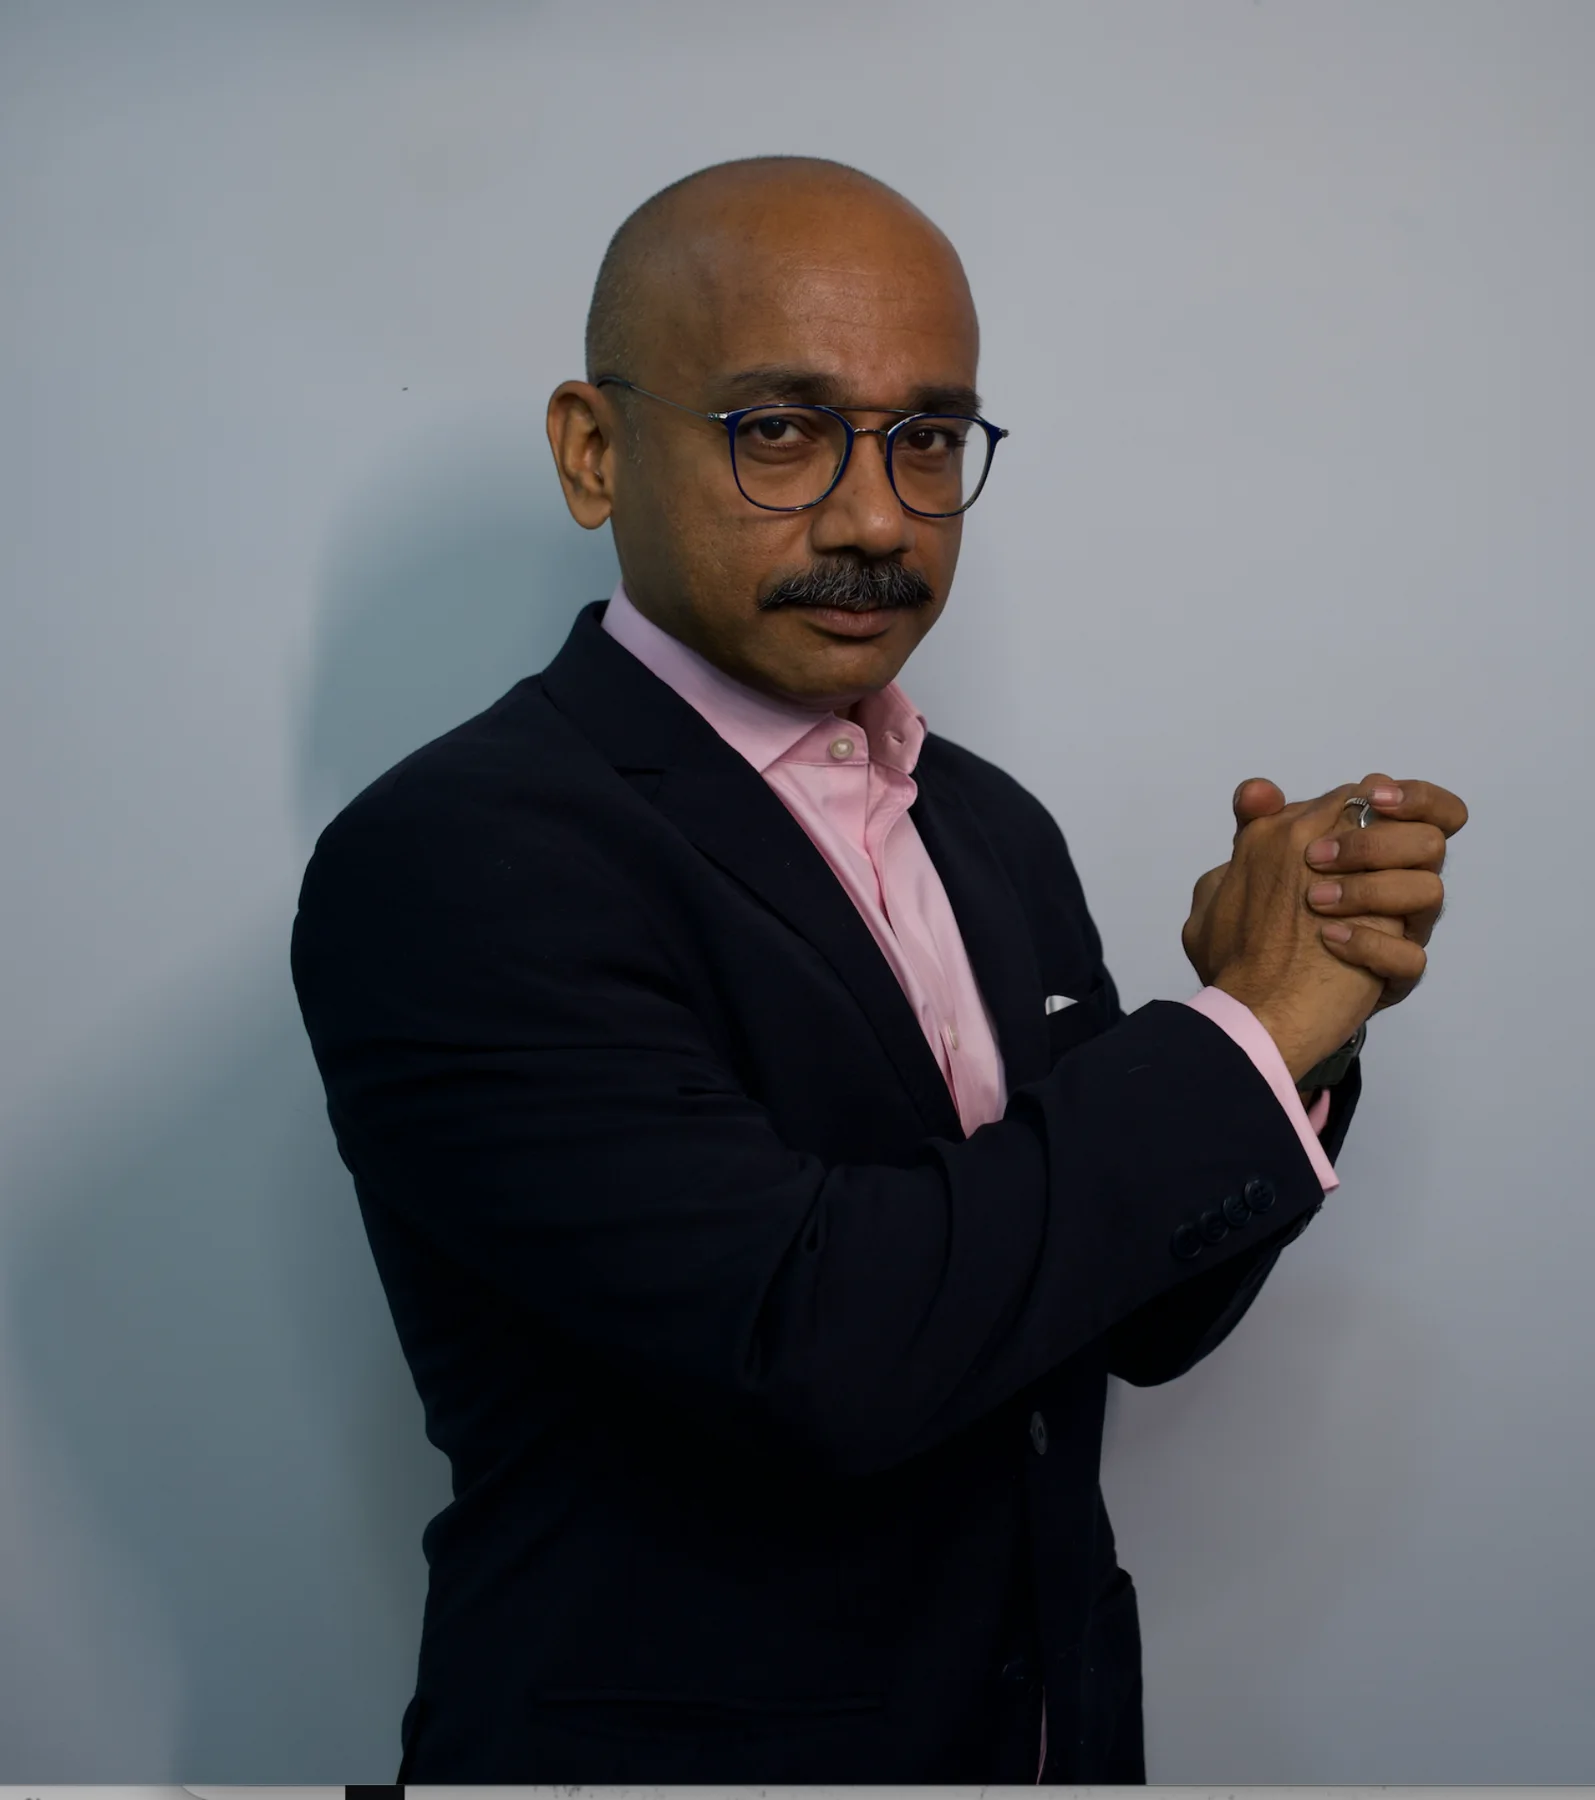
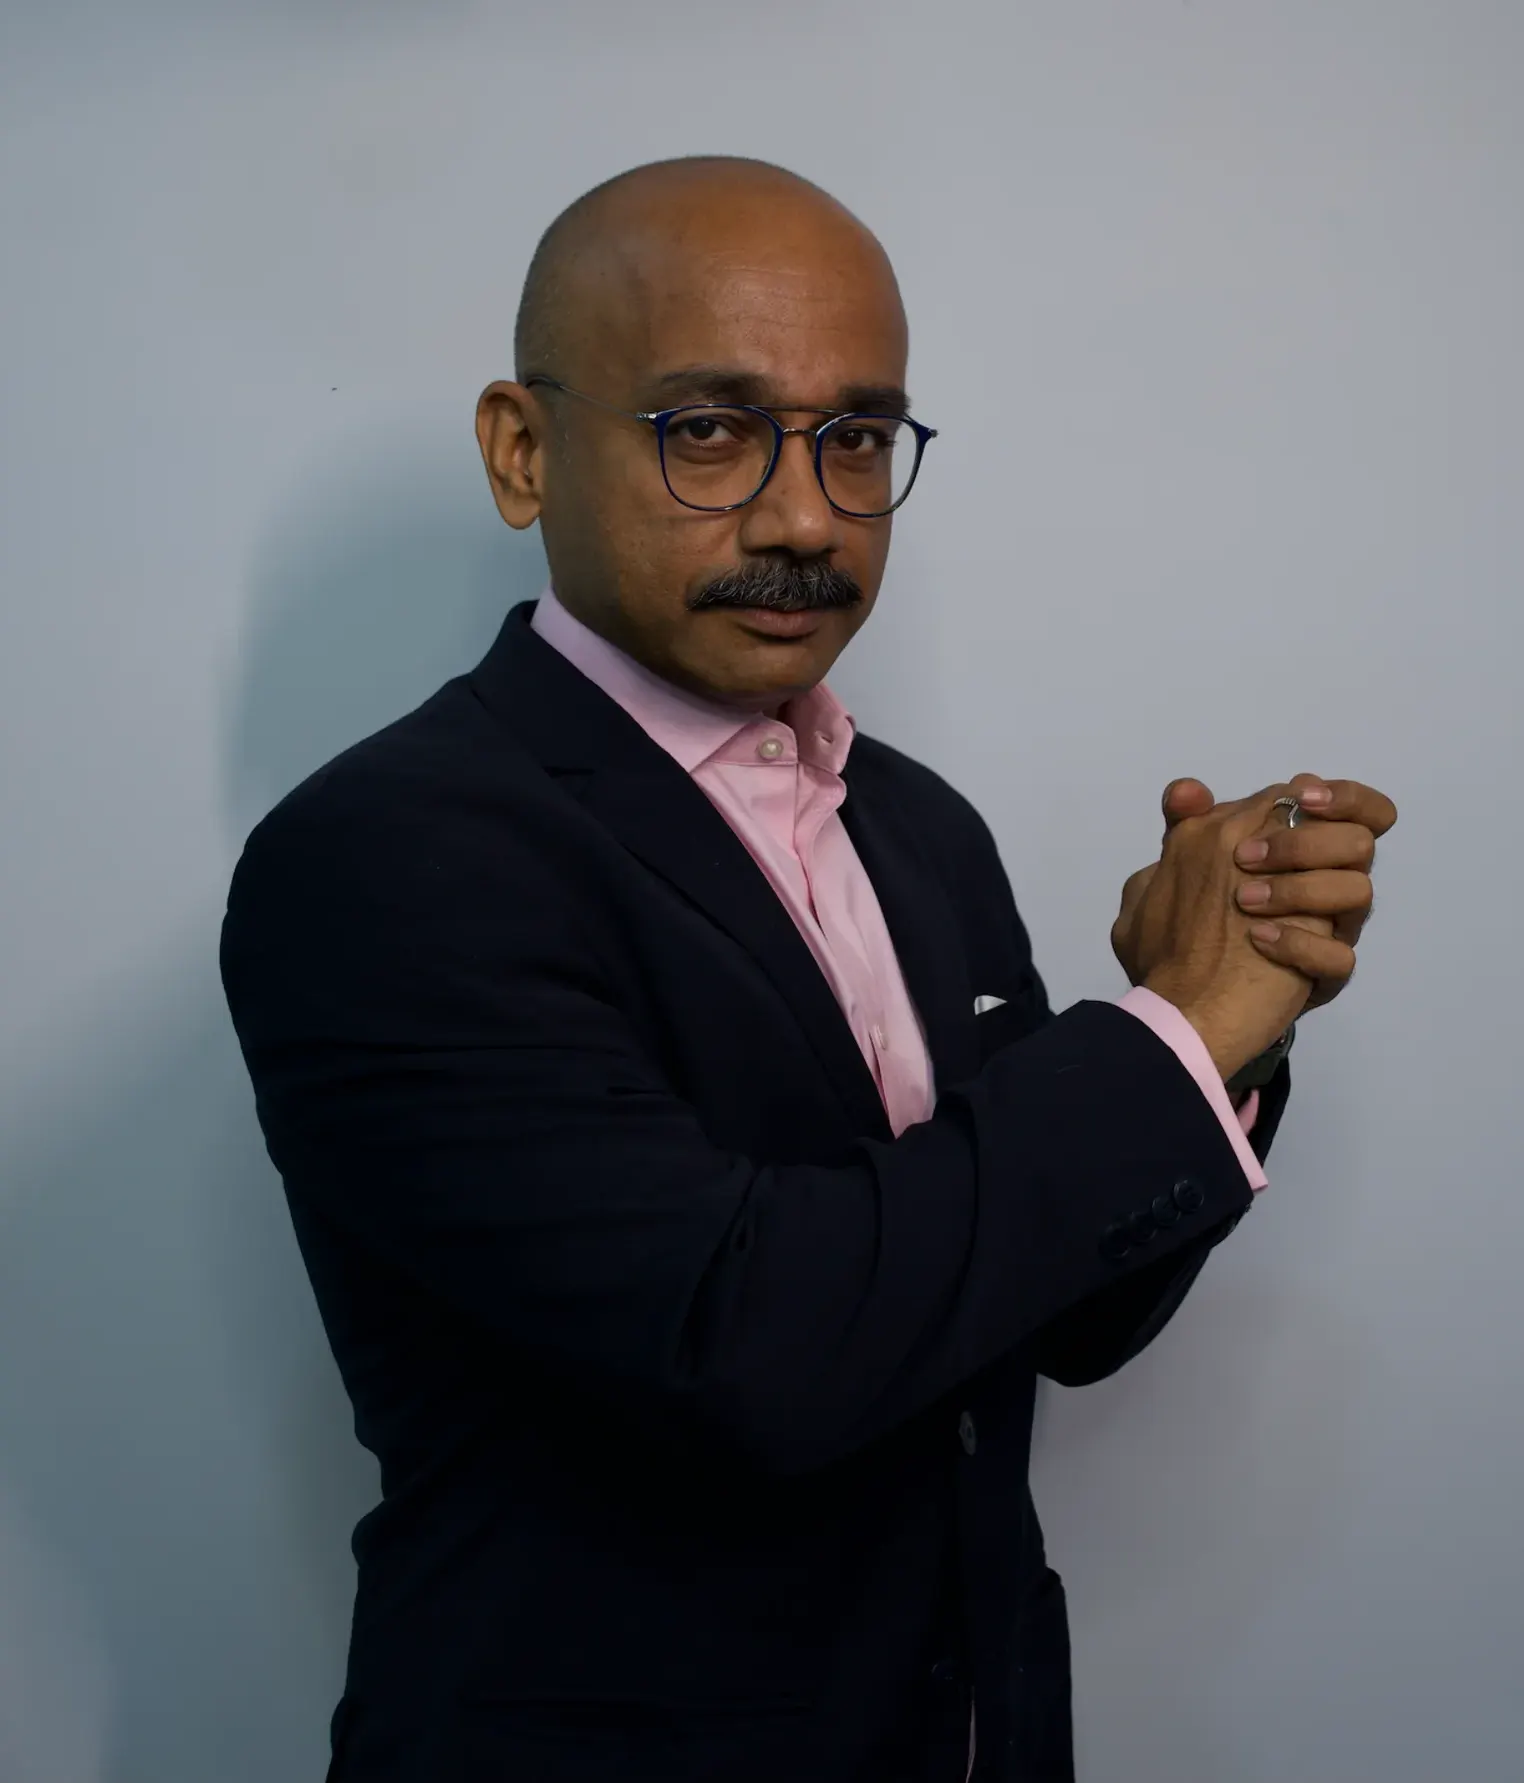
first commit

diff --git a/about.html b/about.html
@@ -50,11 +50,10 @@
   <section class="hero">
     <div class="container hero-grid">
       <div class="hero-copy">
-        <div class="eyebrow">About Vijay</div>
-        <h1>A Journey of Reinvention. <span class="gold">A Voice That Inspires Millions.</span></h1>
-        <p>From corporate boardrooms to national television, from finding his own voice to helping others find theirs,
-          Vijay Vikram Singh has built a career around one belief: communication can change lives.</p>
-        <div class="cta-row"><a class="btn btn-primary" href="contact.html#leadForm">Work With Vijay</a></div>
+        <div class="eyebrow">About VVS</div>
+        <h1>A Journey of Reinvention. <br> <span class="gold">A Voice That Inspires Millions.</span></h1>
+        <p>From corporate beginnings to becoming a recognised voice, my work is rooted in one idea — communication is not just spoken, it is experienced through clarity, confidence, and presence.</p>
+        <div class="cta-row"><a class="btn btn-primary" href="contact.html#leadForm">Work With VVS</a></div>
       </div>
       <div class="hero-image"><img src="assets/images/hero-vijay-2.webp" alt="Vijay Vikram Singh portrait"></div>
     </div>
@@ -66,12 +65,10 @@
       </div>
       <div>
         <div class="eyebrow">My Story</div>
-        <h2 class="section-title">The Voice You Know. The Journey You Do Not.</h2>
-        <p>Vijay's journey is built on curiosity, discipline, performance and reinvention. His work across television,
-          films, voice-over and corporate training gives him a rare ability to understand both stage presence and
-          real-world communication.</p>
-        <p>Today, he helps leaders, teams and individuals communicate with clarity, authority and presence.</p>
-        <a class="btn btn-primary" href="contact.html#leadForm">Book a Session</a>
+        <h2 class="section-title">The Voice You Hear. <br> The Depth You Don’t See.</h2>
+        <p>My work has taken me across studios, film sets, and boardrooms, but at the core of it all is a single question I’ve been exploring for years “What makes communication truly land”.</p>
+        <p>I started my journey in the corporate world, where I saw how often ideas don’t fail because they lack substance, they fail because they lack clarity and presence. That understanding stayed with me when I moved into Voice Over and dubbing work in 2009.</p>
+        <a class="btn btn-primary" href="contact.html#leadFormSection">Book a Session</a>
       </div>
     </div>
   </section>
@@ -113,10 +110,16 @@
   <section class="dark">
     <div class="container split">
       <div>
-        <h2 class="section-title">Your voice is your presence. Your presence is your power.</h2>
+        <!-- <h2 class="section-title">Your voice is your presence. Your presence is your power.</h2> -->
+        <h2 class="section-title">The Journey Behind The Voice</h2>
         <p class="section-description">
-          Discover the art of impactful communication with Vijay Vikram Singh. From commanding the stage to leading meaningful conversations, learn how to use your voice with clarity, confidence, and purpose. Transform the way you express, influence, and connect—because the way you speak defines how the world perceives you.
+          Over the years, my voice has become part of some of the most recognised shows in the country. As the narrator of Bigg Boss since 2010, and through shows like Kaun Banega Crorepati, Indian Idol, MasterChef India, and others, I’ve had the opportunity to be a consistent voice across Indian television. Somewhere along the way, voice stopped being just a profession and became a deeper study of identity, of how sound carries intent, authority, and emotion.
         </p>
+        <p class="section-description">In 2018, Acting brought in another dimension. Working across OTT platforms and films, stepping into different characters, and being in front of the camera made one thing very clear that truth cannot be faked. The camera catches everything and that process deepened my understanding of behaviour, emotion, and presence in a way no theory can.</p>
+        <p class="section-description">These experiences naturally led me to the third space I now work in - People.</p>
+        <p class="section-description">Today, I work with leaders, founders, and professionals across industries, helping them bridge the gap between what they want to say and how they are actually perceived. The work is not about tips or surface-level techniques. It is about alignment of thought, of voice, and of body; especially in high pressure situations where it matters the most.</p>
+        <p class="section-description">Alongside this, I continue to work closely with actors and creators on voice and performance, helping them find authenticity in how they sound and show up.</p>
+        <p class="section-description">Across all of this, whether it’s a show, a scene, or a boardroom conversation, the challenge remains the same : <span class="gold-des">“You are being heard, but are you being understood?”</span></p>
         <div class="signature">Vijay Vikram Singh</div>
         <a class="btn btn-primary" href="contact.html#leadForm">Book a Session</a>
       </div>
@@ -256,6 +259,7 @@
       <span>Connect with VVS</span>
     </button>
   </div>
+
   <script src="assets/js/main.js"></script>
 </body>
 

diff --git a/assets/js/main.js b/assets/js/main.js
@@ -1,10 +1,14 @@
 const BRAND_CONFIG = {
   whatsappNumber: "919876543210", // TODO: Replace with Vijay Vikram Singh team's official WhatsApp number, country code only.
-  apiEndpoint: "/api/lead"
+  apiEndpoint: "/api/lead",
 };
 
-function qs(selector, root = document) { return root.querySelector(selector); }
-function qsa(selector, root = document) { return [...root.querySelectorAll(selector)]; }
+function qs(selector, root = document) {
+  return root.querySelector(selector);
+}
+function qsa(selector, root = document) {
+  return [...root.querySelectorAll(selector)];
+}
 
 function initMenu() {
   const toggle = qs(".menu-toggle");
@@ -33,7 +37,7 @@ function buildLeadMessage(data) {
     "",
     `Message: ${data.message || ""}`,
     "",
-    `Needs: ${data.needs || "None selected"}`
+    `Needs: ${data.needs || "None selected"}`,
   ];
   return lines.filter(Boolean).join("\n");
 }
@@ -45,7 +49,9 @@ function openWhatsApp(message) {
 
 function getFormData(form) {
   const data = Object.fromEntries(new FormData(form).entries());
-  data.needs = qsa("input[name='needs']:checked", form).map(i => i.value).join(", ");
+  data.needs = qsa("input[name='needs']:checked", form)
+    .map((i) => i.value)
+    .join(", ");
   return data;
 }
 
@@ -58,8 +64,10 @@ function initLeadForm() {
 
   function refreshDetails() {
     const value = typeSelect.value;
-    detailBlocks.forEach(block => {
-      const match = block.dataset.detailBlock === value || block.dataset.detailBlock === "all";
+    detailBlocks.forEach((block) => {
+      const match =
+        block.dataset.detailBlock === value ||
+        block.dataset.detailBlock === "all";
       block.style.display = match ? "block" : "none";
     });
   }
@@ -78,11 +86,14 @@ function initLeadForm() {
       await fetch(BRAND_CONFIG.apiEndpoint, {
         method: "POST",
         headers: { "Content-Type": "application/json" },
-        body: JSON.stringify({ ...data, whatsappMessage: message })
+        body: JSON.stringify({ ...data, whatsappMessage: message }),
       });
-      if (status) status.textContent = "Enquiry captured. WhatsApp will open for instant confirmation.";
+      if (status)
+        status.textContent =
+          "Enquiry captured. WhatsApp will open for instant confirmation.";
     } catch (error) {
-      if (status) status.textContent = "Opening WhatsApp with your enquiry details.";
+      if (status)
+        status.textContent = "Opening WhatsApp with your enquiry details.";
     }
 
     openWhatsApp(message);
@@ -99,11 +110,20 @@ function initWhatsAppBot() {
   const options = qsa(".bot-option", bot);
 
   float.addEventListener("click", () => panel.classList.toggle("open"));
-  options.forEach(button => {
-    button.addEventListener("click", () => openWhatsApp(button.dataset.message));
+  options.forEach((button) => {
+    button.addEventListener("click", () =>
+      openWhatsApp(button.dataset.message),
+    );
+  });
+  document.addEventListener("click", (e) => {
+    if (!bot.contains(e.target)) {
+      panel.classList.remove("open");
+    }
   });
   send.addEventListener("click", () => {
-    const text = input.value.trim() || "Hi, I want to enquire about Vijay Vikram Singh's services.";
+    const text =
+      input.value.trim() ||
+      "Hi, I want to enquire about Vijay Vikram Singh's services.";
     openWhatsApp(text);
   });
 }

diff --git a/assets/css/styles.css b/assets/css/styles.css
@@ -72,14 +72,19 @@ textarea {
 .section-title {
   font-family: Playfair Display, Georgia, serif;
   font-size: 40px;
-  line-height: 1.05;
+  line-height: 1.3;
   margin: 10px 0 18px;
 }
 .section-description {
-  margin-top: 30px;
+  margin-top: 10px;
   font-size: 16px;
   line-height: 1.6;
   opacity: 0.8;
+}
+
+.section-description .gold-des {
+  color: var(--gold-light);
+  font-weight: 600;
 }
 
 .lead {
@@ -208,7 +213,7 @@ textarea {
 .hero-copy h1 {
   font-family: Playfair Display, Georgia, serif;
   font-size: clamp(3rem, 6vw, 6.1rem);
-  line-height: .98;
+  line-height: 1.2;
   margin: 0 0 18px;
   letter-spacing: -.03em;
 }
@@ -313,7 +318,7 @@ textarea {
   grid-template-columns: 1fr 1fr;
   gap: 70px;
   align-items: center;
-  padding: 82px 0;
+  padding: 40px 0;
 }
 
 .card-image {
@@ -636,6 +641,10 @@ textarea {
 
 .form-section {
   padding: 70px 0;
+}
+
+#leadForm {
+  scroll-margin-top: 220px;
 }
 
 .contact-layout {
@@ -965,6 +974,10 @@ textarea {
   .split,
   .checks {
     grid-template-columns: 1fr;
+  }
+
+  .card-image {
+    order: 2;
   }
 
   .cards {

diff --git a/contact.html b/contact.html
@@ -75,8 +75,7 @@
     <div class="container contact-layout">
       <div class="form-card">
         <h2 class="section-title" style="font-size:2.6rem">Send an Enquiry</h2>
-        <p>Share your requirements. This form can open WhatsApp with the full enquiry details and can also post to
-          Vercel's /api/lead endpoint.</p>
+        <p>Share your requirements.</p>
         <form id="leadForm">
           <div class="form-grid">
             <div><label for="fullName">Full Name *</label><input id="fullName" name="fullName" required
@@ -141,7 +140,6 @@
               response</label></div>
           <button class="btn btn-primary" type="submit">Submit Enquiry</button>
           <div id="formStatus" class="status" aria-live="polite"></div>
-          <p class="form-note">Note: Replace the placeholder WhatsApp number in assets/js/main.js before launch.</p>
         </form>
       </div>
       <aside class="contact-card">
